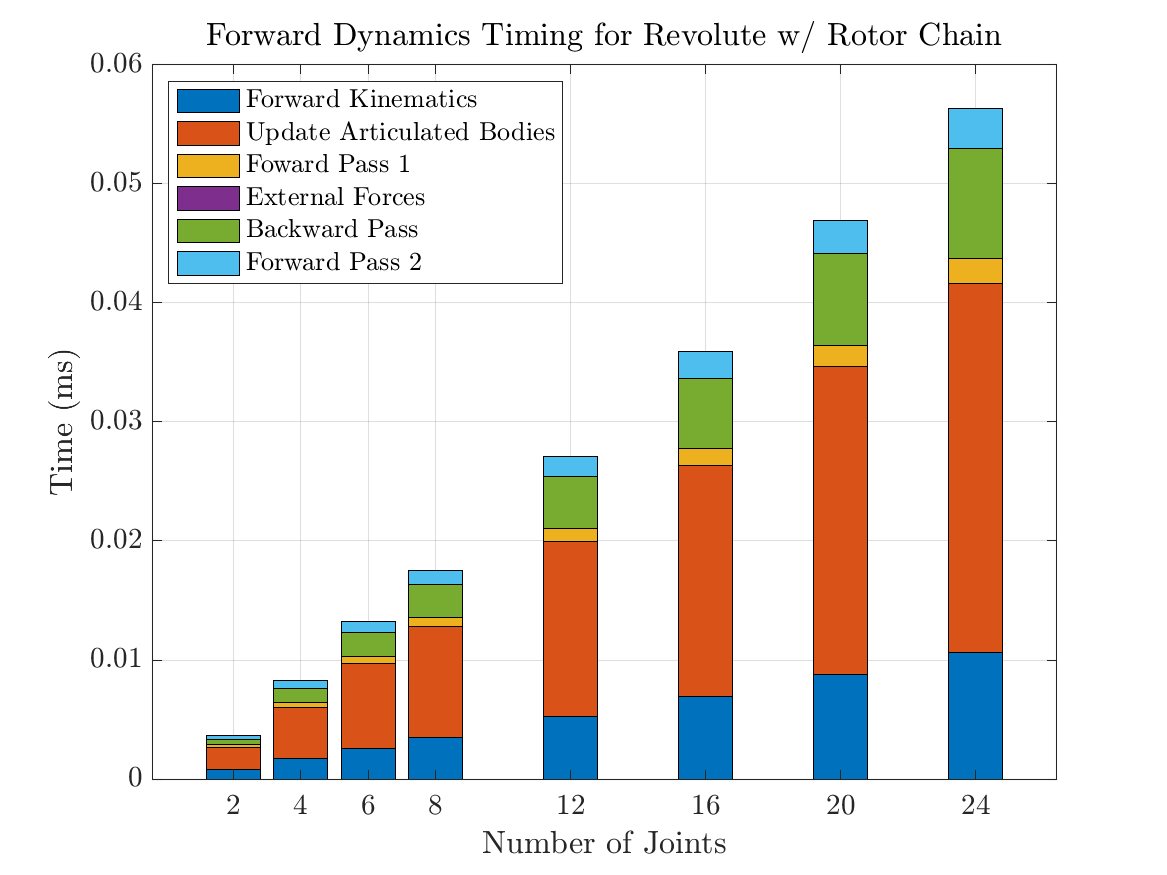
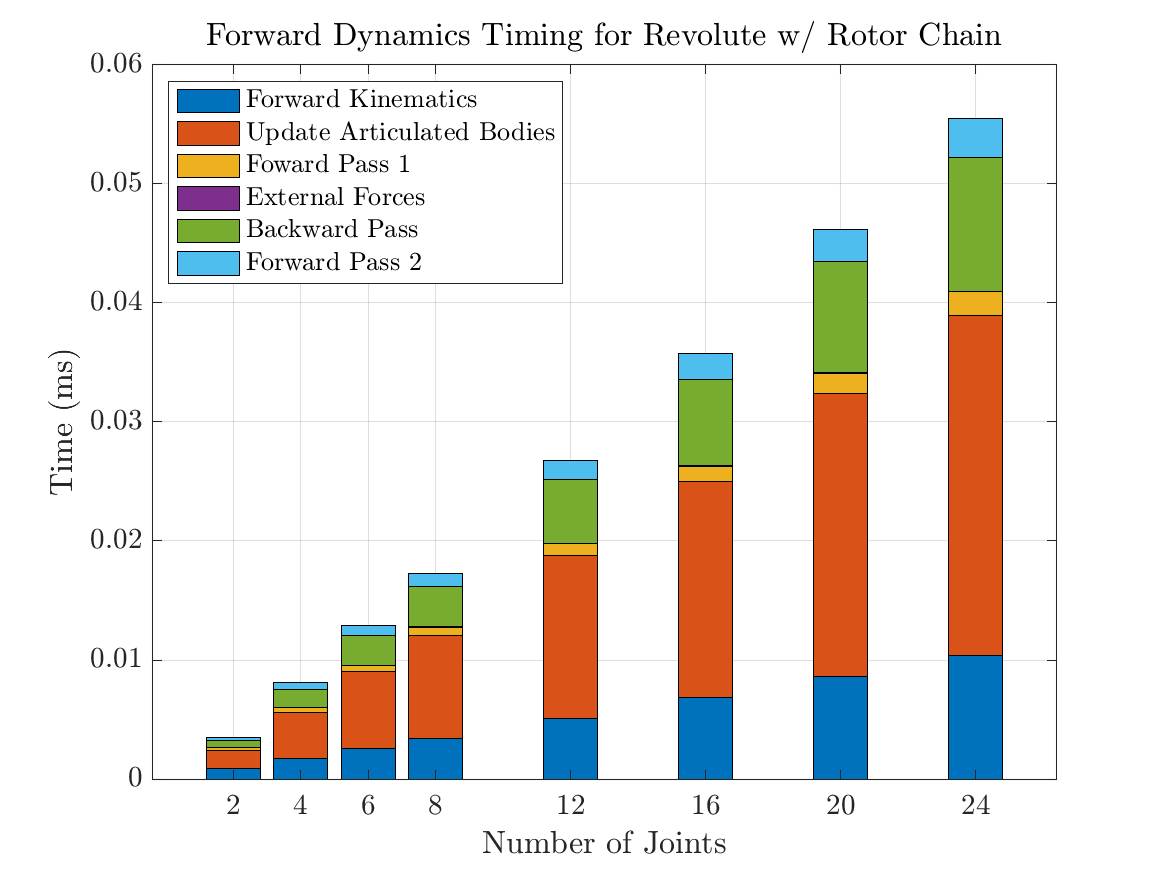
- Timing stats for Articulated Cluster Algo - Modest speed improvement to Dinv calculations

diff --git a/Dynamics/ClusterTreeDynamics.cpp b/Dynamics/ClusterTreeDynamics.cpp
@@ -106,11 +106,12 @@ namespace grbda
             {
                 auto parent_cluster = cluster_nodes_[cluster->parent_index_];
 
-                DMat<double> Ia =
-                    cluster->IA_ - cluster->U_ * cluster->D_inv_ * cluster->U_.transpose();
+                DMat<double> Ia = cluster->IA_ -
+                                  cluster->U_ * (cluster->D_inv_.solve(cluster->U_.transpose()));
 
-                DVec<double> pa =
-                    cluster->pA_ + Ia * cluster->c_ + cluster->U_ * cluster->D_inv_ * cluster->u_;
+                DVec<double> pa = cluster->pA_ +
+                                  Ia * cluster->c_ +
+                                  cluster->U_ * (cluster->D_inv_.solve(cluster->u_));
 
                 parent_cluster->pA_ += cluster->Xup_.inverseTransformForceVector(pa);
             }
@@ -138,7 +139,7 @@ namespace grbda
                 a_temp = cluster->Xup_.transformMotionVector(-gravity_) + cluster->c_;
             }
             qdd.segment(vel_idx, num_vel) =
-                cluster->D_inv_ * (cluster->u_ - cluster->U_.transpose() * a_temp);
+                cluster->D_inv_.solve(cluster->u_ - cluster->U_.transpose() * a_temp);
             cluster->a_ = a_temp + joint->S() * qdd.segment(vel_idx, num_vel);
         }
 #ifdef TIMING_STATS
@@ -167,14 +168,15 @@ namespace grbda
             auto &cluster = cluster_nodes_[i];
             const auto joint = cluster->joint_;
             cluster->U_ = cluster->IA_ * joint->S();
-            cluster->D_inv_ = (joint->S().transpose() * cluster->U_).inverse();
+            // cluster->D_inv_ = (joint->S().transpose() * cluster->U_).inverse();
+            cluster->D_inv_ = Eigen::LLT<DMat<double>>(joint->S().transpose() * cluster->U_);
 
             // Articulated body inertia recursion
             if (cluster->parent_index_ >= 0)
             {
                 auto parent_cluster = cluster_nodes_[cluster->parent_index_];
                 DMat<double> Ia =
-                    cluster->IA_ - cluster->U_ * cluster->D_inv_ * cluster->U_.transpose();
+                    cluster->IA_ - cluster->U_ * (cluster->D_inv_.solve(cluster->U_.transpose()));
                 parent_cluster->IA_ += cluster->Xup_.inverseTransformSpatialInertia(Ia);
             }
         }
@@ -269,7 +271,7 @@ namespace grbda
             const auto joint = cluster->joint_;
             cluster->ChiUp_ =
                 cluster->Xup_.toMatrix() -
-                joint->S() * cluster->D_inv_ * cluster->U_.transpose() * cluster->Xup_.toMatrix();
+                joint->S() * (cluster->D_inv_.solve(cluster->U_.transpose())) * cluster->Xup_.toMatrix();
         }
 
         force_propagators_updated_ = true;

diff --git a/Dynamics/Nodes/ClusterTreeNode.h b/Dynamics/Nodes/ClusterTreeNode.h
@@ -56,11 +56,11 @@ namespace grbda
         std::shared_ptr<GeneralizedJoints::Base> joint_;
 
         // Featherstone quantities
-        DMat<double> IA_;    // articulated body inertia
-        DVec<double> pA_;    // articulated body bias force
-        DMat<double> U_;     // helper variable for ABA
-        DMat<double> D_inv_; // helper variable for ABA
-        DVec<double> u_;     // helper variable for ABA
+        DMat<double> IA_;                // articulated body inertia
+        DVec<double> pA_;                // articulated body bias force
+        DMat<double> U_;                 // helper variable for ABA
+        Eigen::LLT<DMat<double>> D_inv_; // helper variable for ABA
+        DVec<double> u_;                 // helper variable for ABA
 
         DMat<double> ChiUp_;
         DMat<double> qdd_for_subtree_due_to_subtree_root_joint_qdd;
